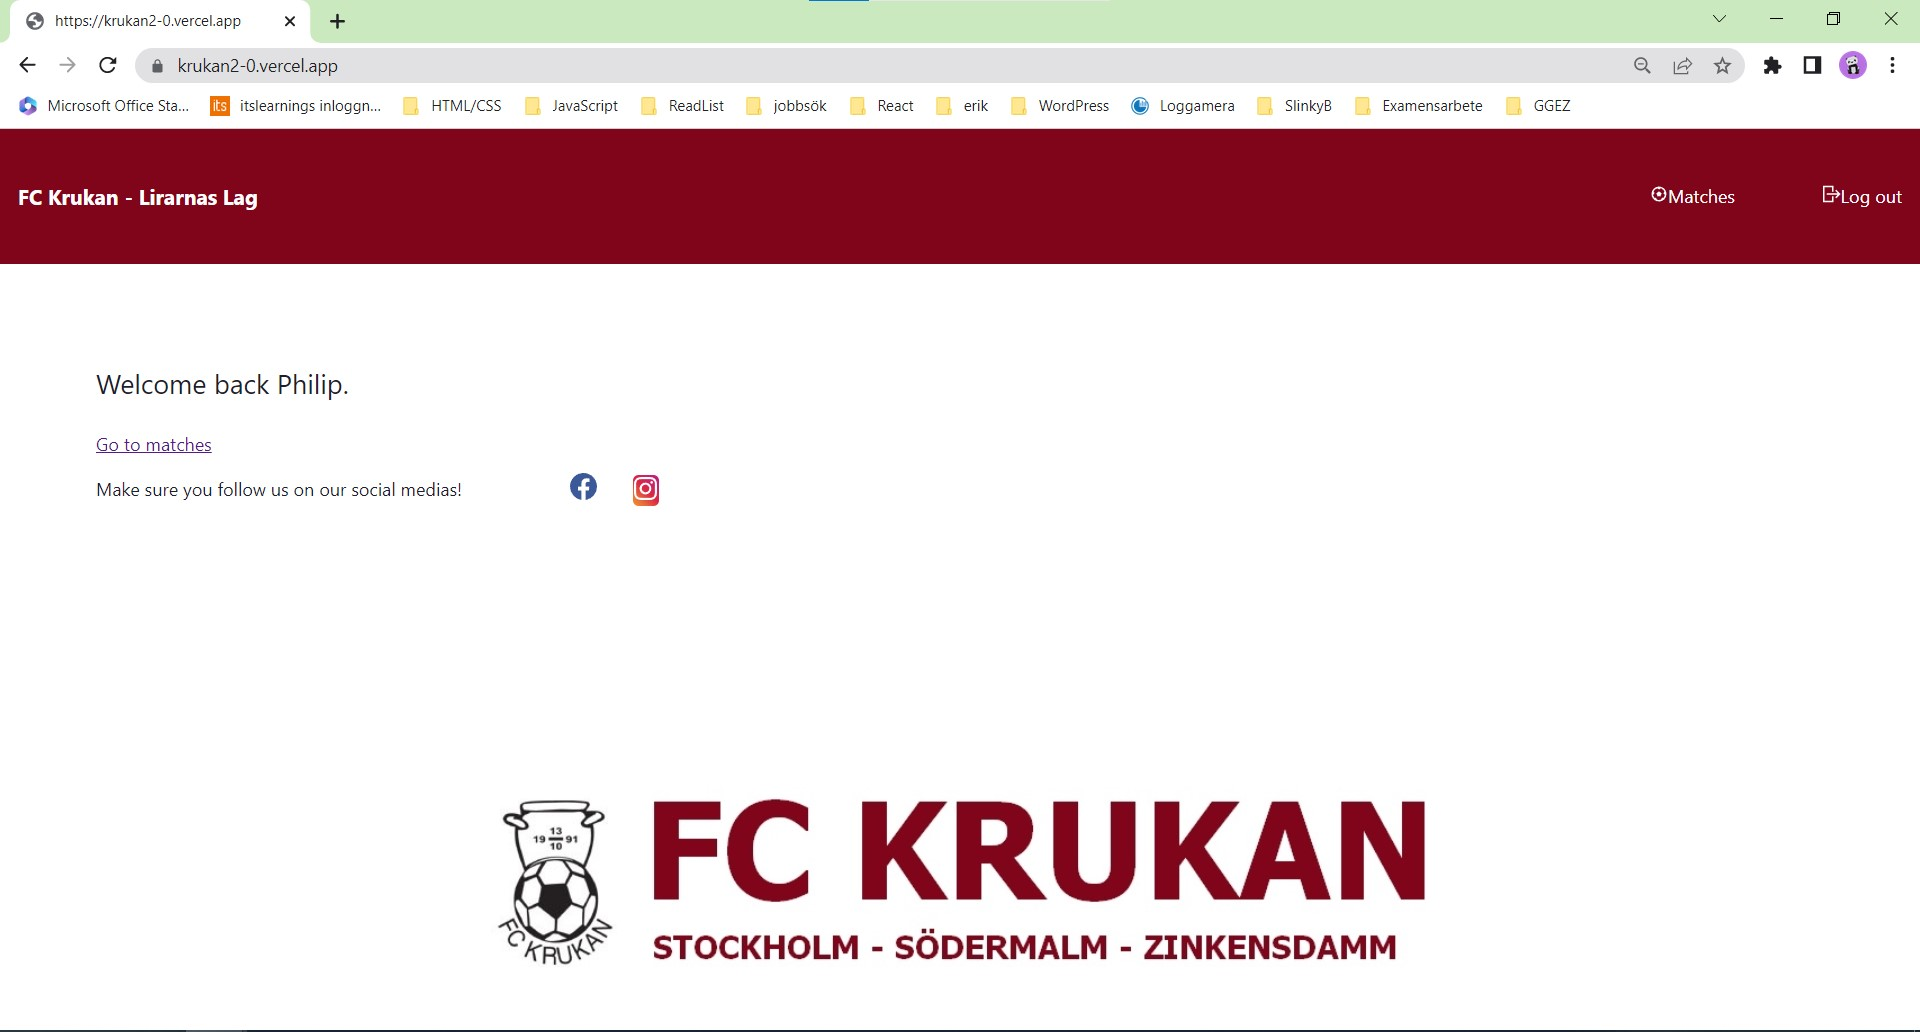
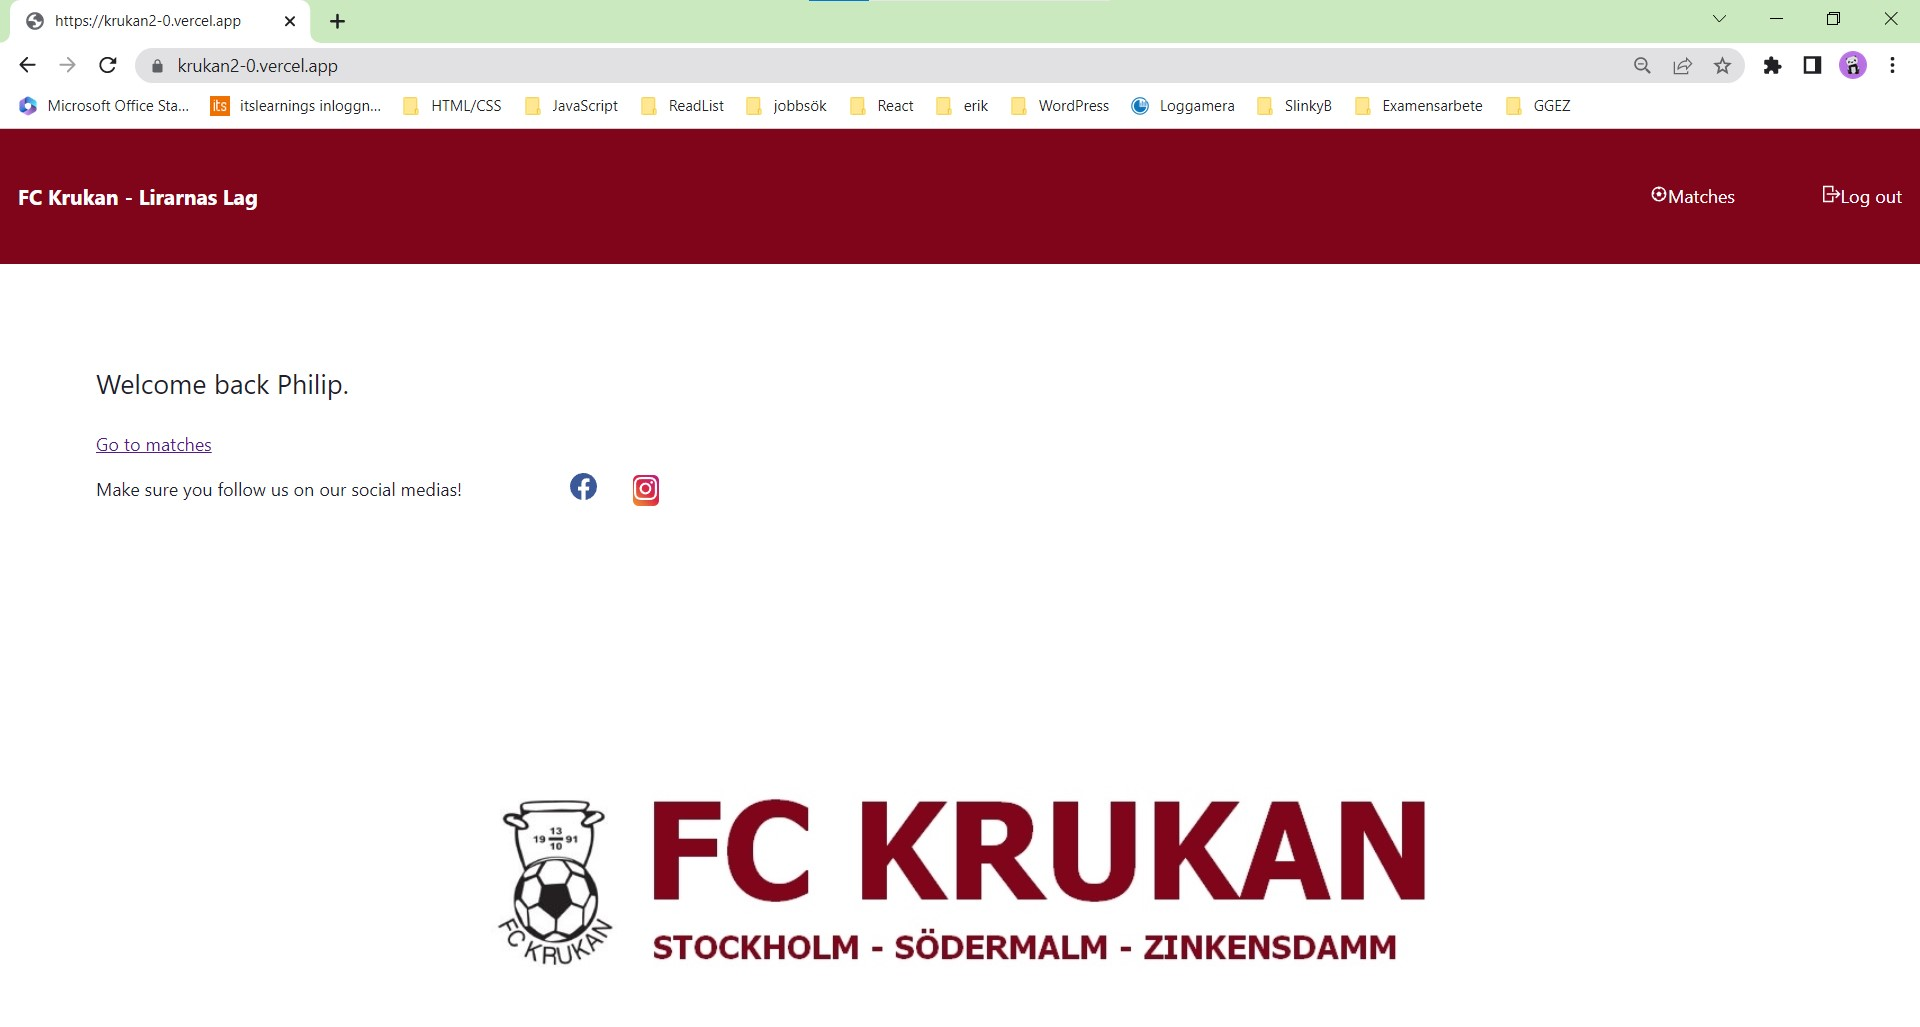
making img div smaller

diff --git a/src/app/projects/krukan/page.tsx b/src/app/projects/krukan/page.tsx
@@ -6,6 +6,7 @@ import { krukan } from "@/utils/krukan/info";
 const images = [
   "/krukan/landing-page.jpg",
   "/krukan/match-roster.jpg",
+  "/krukan/mobile.jpg",
   "/krukan/match-schedule.jpg",
   "/krukan/db-matches.jpg",
 ];
@@ -21,8 +22,8 @@ const KrukanPage = () => {
         tags={krukan.tags}
         text={krukan.text}
       />
-      {images.map((img, i) => (
-        <ProjectImage key={i} src={img} alt={"krukan"} />
+      {images.map((img) => (
+        <ProjectImage key={img} src={img} alt={"Krukan 2.0"} />
       ))}
     </>
   );

diff --git a/src/components/image/Image.module.css b/src/components/image/Image.module.css
@@ -1,6 +1,6 @@
 .imgDiv {
   position: unset !important;
-  width: 80vw;
+  width: 60vw;
   margin: 2rem auto;
   box-shadow: rgba(0, 0, 0, 0.35) 0px 5px 15px;
   border-radius: 5px;

diff --git a/src/components/textSection/TextSection.tsx b/src/components/textSection/TextSection.tsx
@@ -53,7 +53,6 @@ export const TextSection: React.FC<Props> = ({
           ))}
         </div>
       </div>
-      ;
     </>
   );
 };
